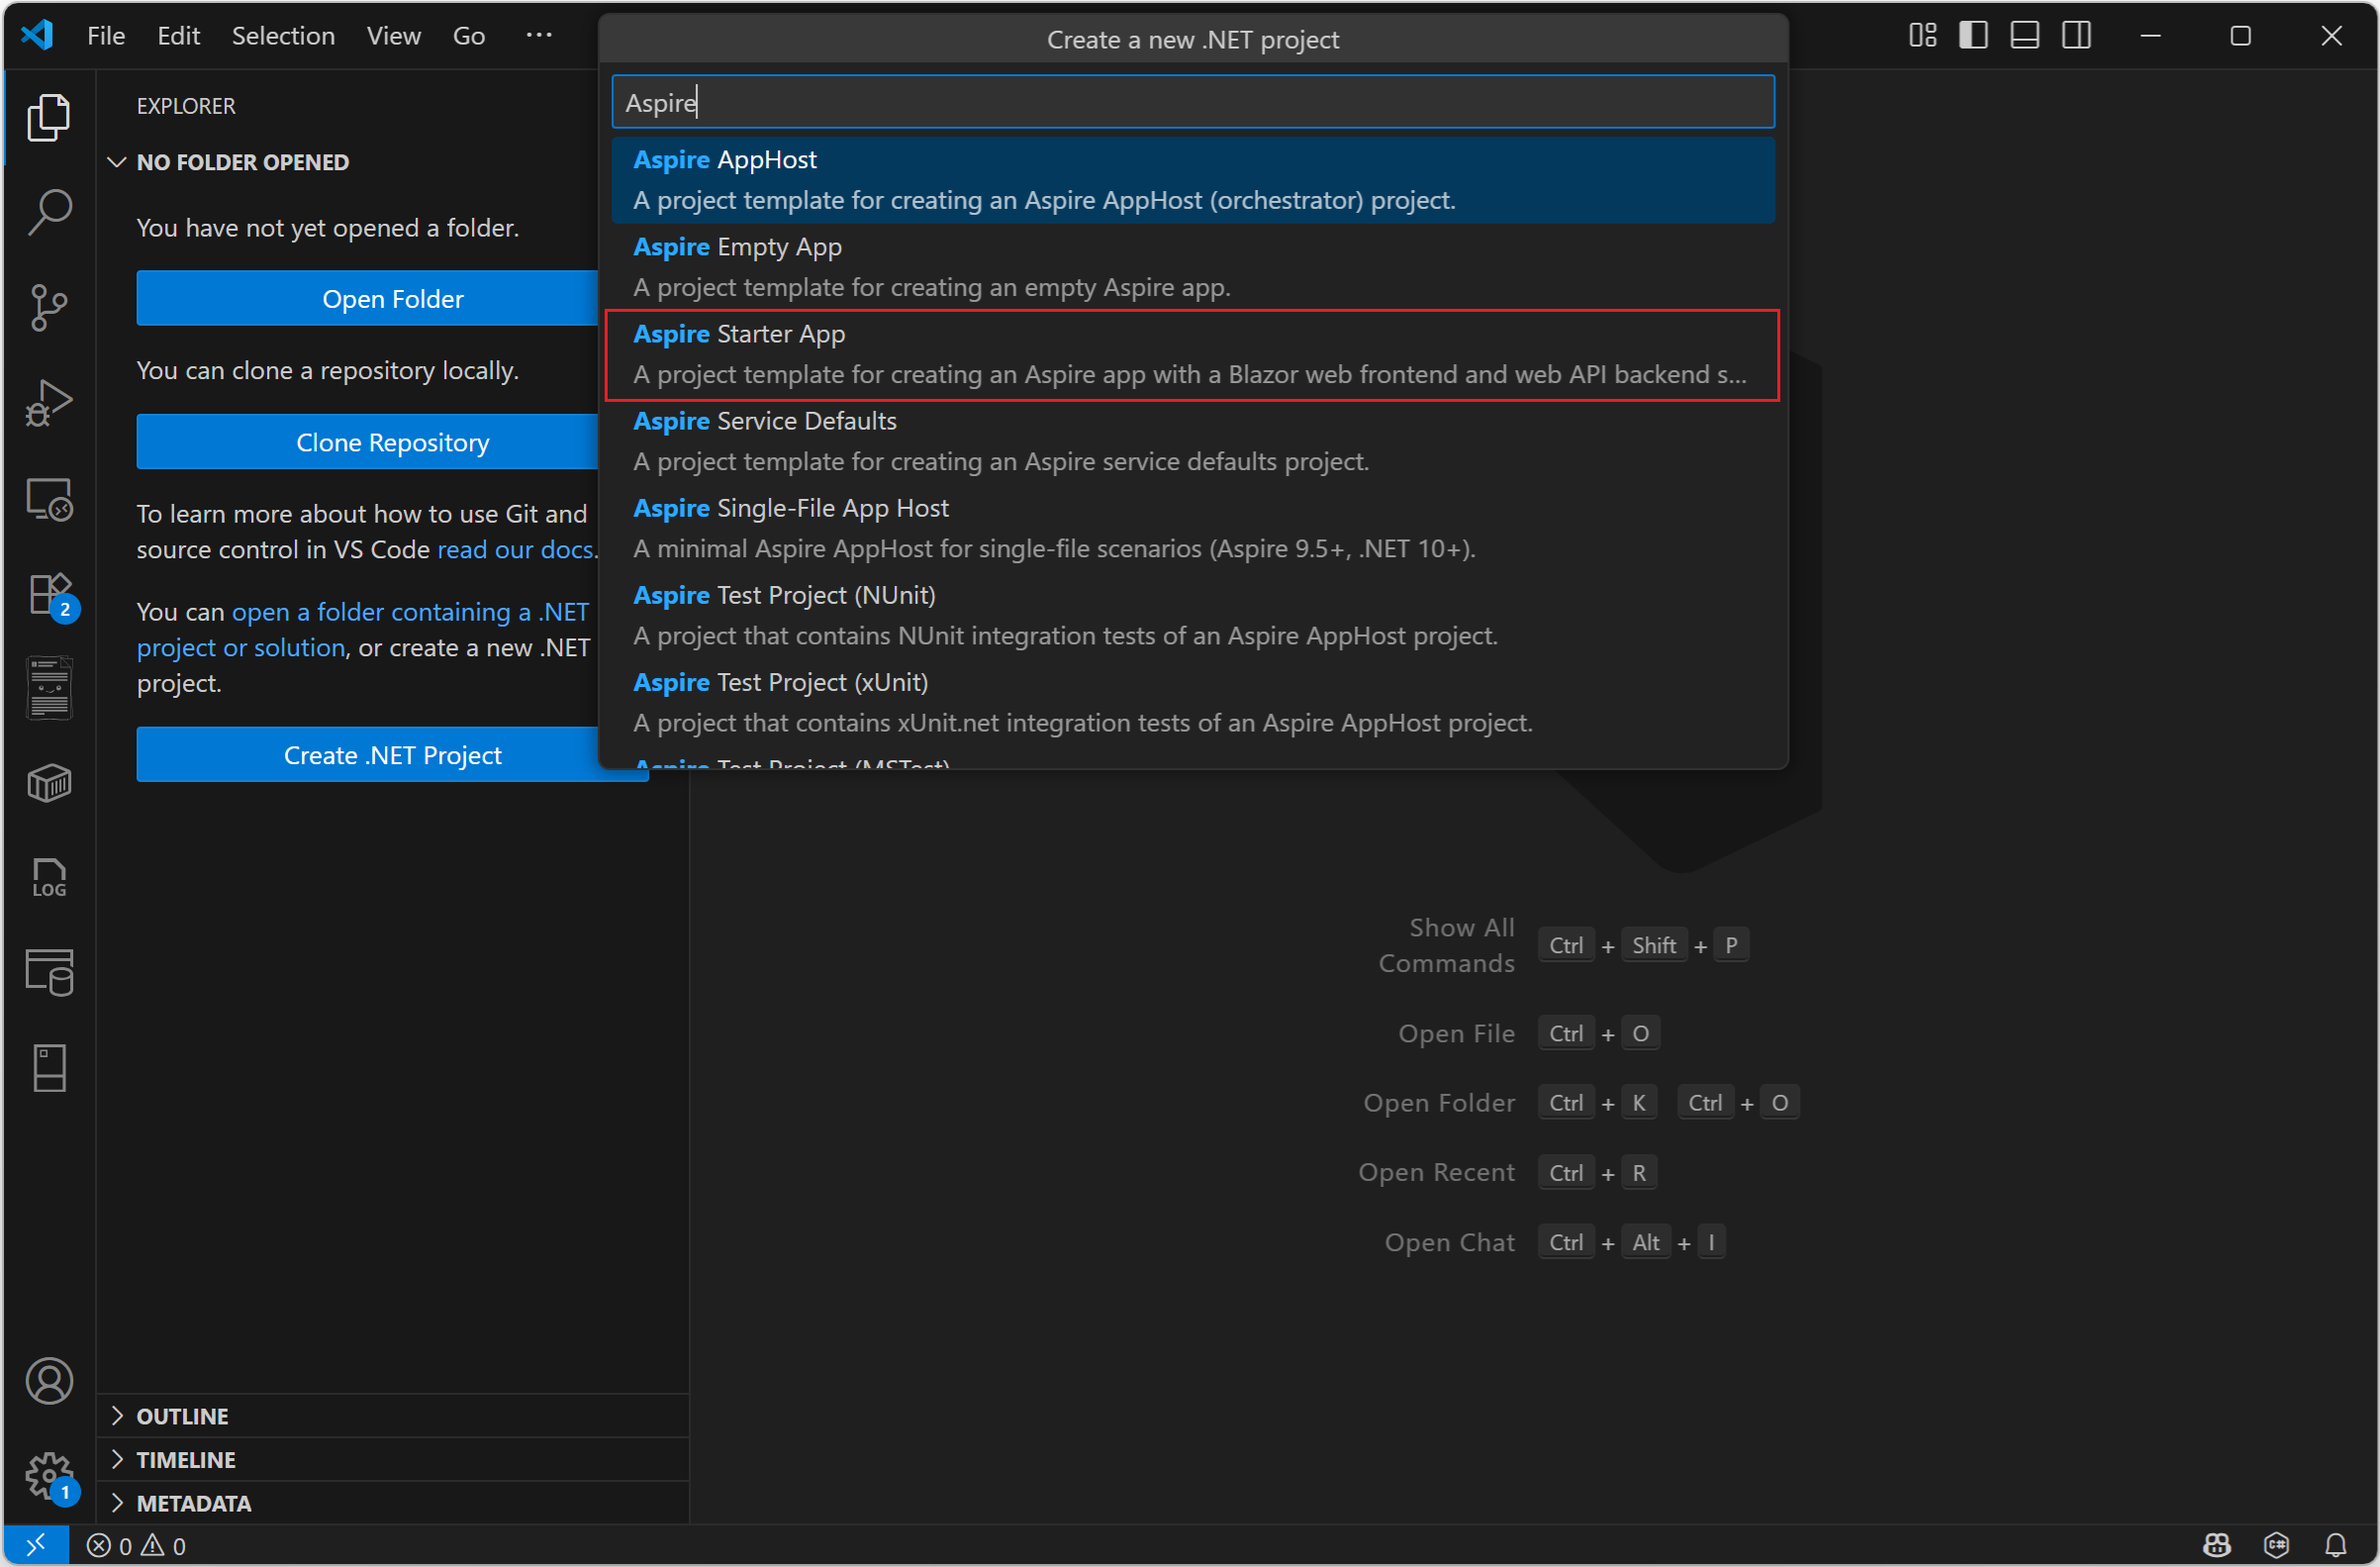
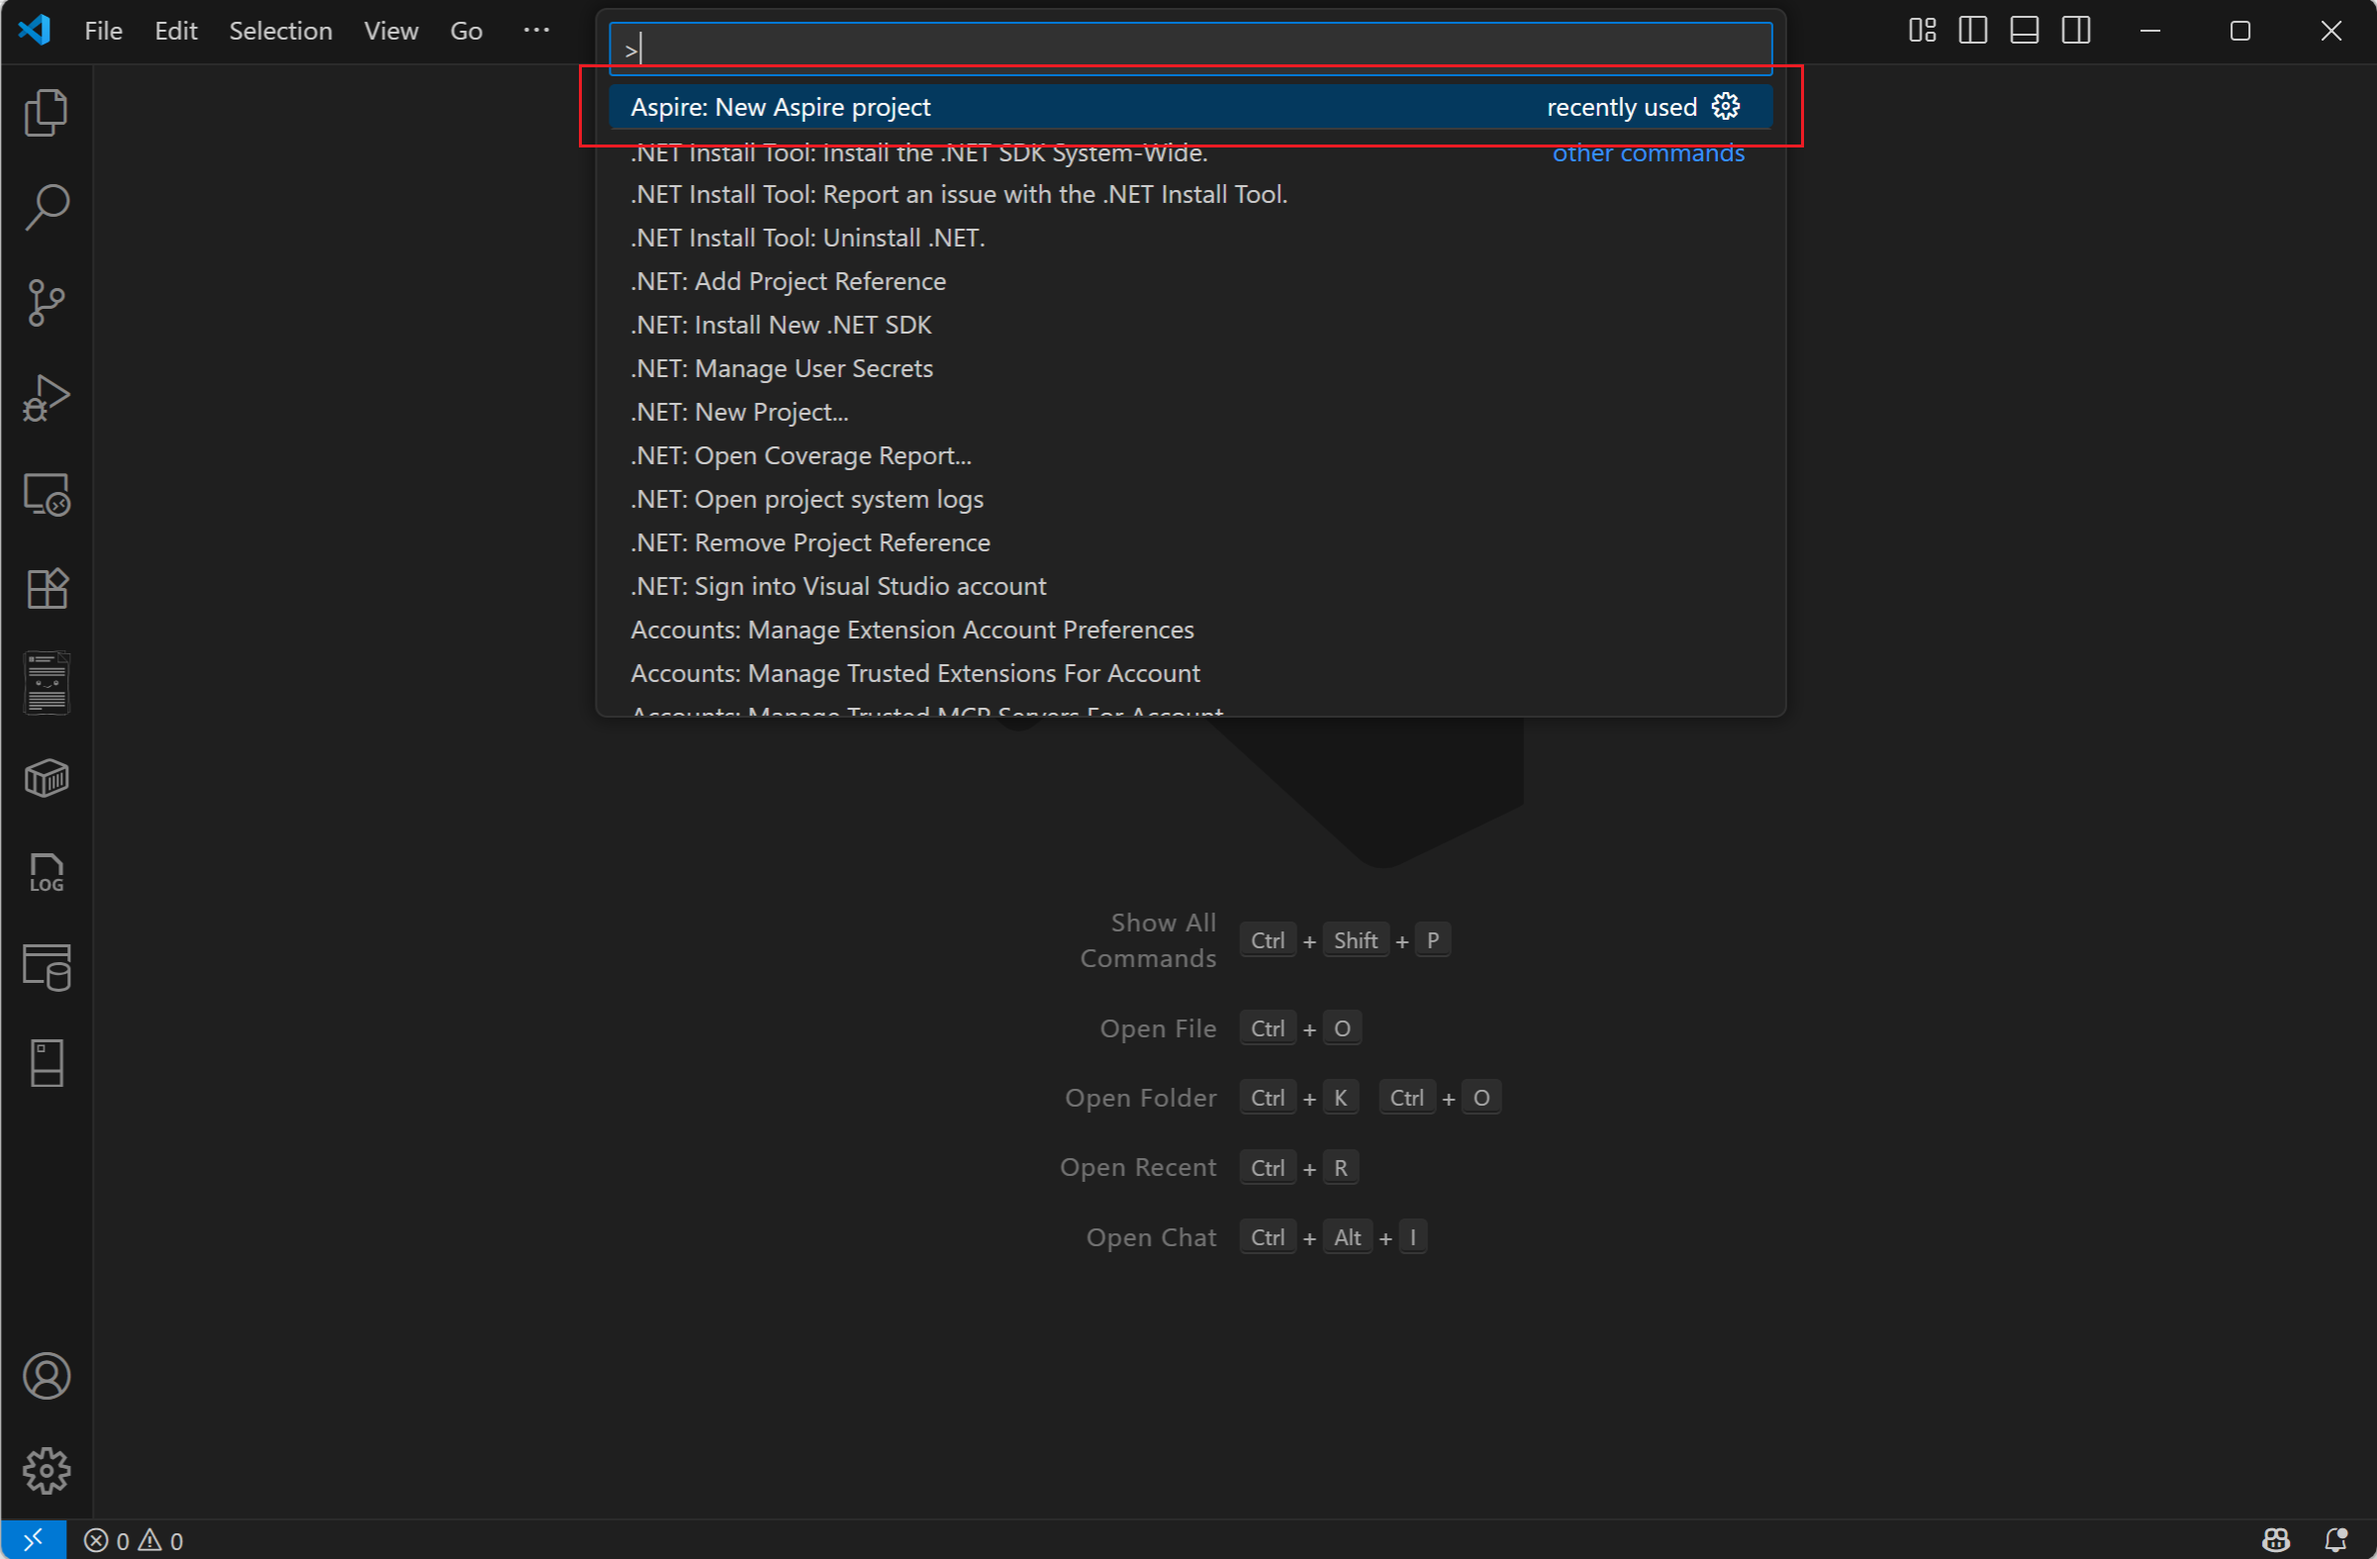
Documented VS Code Aspire extension for app creation.

diff --git a/docs/includes/vscode-file-new.md b/docs/includes/vscode-file-new.md
@@ -1,8 +1,21 @@
-Visual Studio Code provides Aspire project templates that handle some initial setup configurations for you. Complete the following steps to create a project for this quickstart:
+Visual Studio Code provides Aspire project templates that handle some initial setup configurations for you and there is an Aspire official extension that integrates Visual Studio Code more closely with Aspire. Complete the following steps to install the extension:
 
-1. From a new instance of Visual Studio Code (without a folder open), select **Create .NET project** button.
-1. Select the **Aspire Starter App** template.
+1. From a new instance of Visual Studio Code (without a folder open), select the **Extensions** tab or press <kbd>CTRL</kbd> + <kbd>SHIFT</kbd> + <kbd>X</kbd>.
+1. In the **Search in Extensions in Marketplace** textbox, type **Aspire** and then select the official Aspire extension.
+1. Select **Install**. Visual Studio Code installs the extension.
+
+    :::image type="content" loc-scope="vs-code" source="media/vscode-install-aspire-extension.png" lightbox="media/vscode-install-aspire-extension.png" alt-text="A screenshot of the Visual Studio Code installing the Aspire official extension.":::
+
+Now, you can use the extension to create a new Aspire solution. Complete the following steps to create a solution for this quickstart:
+
+1. In Visual Studio Code, select **View** > **Command Palette** or press <kbd>CTRL</kbd> + <kbd>SHIFT</kbd> + <kbd>P</kbd>.
+1. Type **Aspire**, and then select **Aspire: New Aspire project**. Visual Studio Code opens a new terminal and starts the Aspire CLI.
 
     :::image type="content" loc-scope="vs-code" source="media/vscode-create-starter-app.png" lightbox="media/vscode-create-starter-app.png" alt-text="A screenshot of the Aspire Starter App template.":::
 
-1. Select a folder for the new project, and then enter a name for it.
+1. When prompted for a project template, select **Starter template**.
+1. Enter a name for the project, and then press <kbd>ENTER</kbd>.
+1. Enter an output path for the new project, and then press <kbd>ENTER</kbd>.
+1. Select a template version for the project. The default is the latest version on NuGet. Alternatively you can select the latest daily or stable builds of Aspire.
+1. Choose `Yes` to include a Redis Cache integration in the solution.
+1. Choose `No` to exclude a test project from the solution. The Aspire CLI creates the new solution.

diff --git a/docs/includes/aspire-cli-new-app.md b/docs/includes/aspire-cli-new-app.md
@@ -16,6 +16,3 @@ The Aspire CLI can lead you through the choices necessary to create a new Aspire
 1. Select the default version of Aspire, which is the latest version on NuGet. Alternatively you can select the latest daily or stable builds of Aspire.
 1. Choose `Yes` to include a Redis Cache integration in the solution.
 1. Choose `No` to exclude a test project from the solution. The Aspire CLI creates the new solution.
-
-> [!NOTE]
-> You chose not to add a test project to the new solution. You can always add a test project later but it's not needed for this quickstart.

diff --git a/docs/get-started/build-your-first-aspire-app.md b/docs/get-started/build-your-first-aspire-app.md
@@ -37,6 +37,9 @@ In this quickstart, you can choose whether to use the Aspire CLI or Visual Studi
 
 :::zone-end
 
+> [!NOTE]
+> You chose not to add a test project to the new solution. You can always add a test project later but it's not needed for this quickstart.
+
 For more information on the available templates, see [Aspire templates](../fundamentals/aspire-sdk-templates.md).
 
 ## Test the app locally
